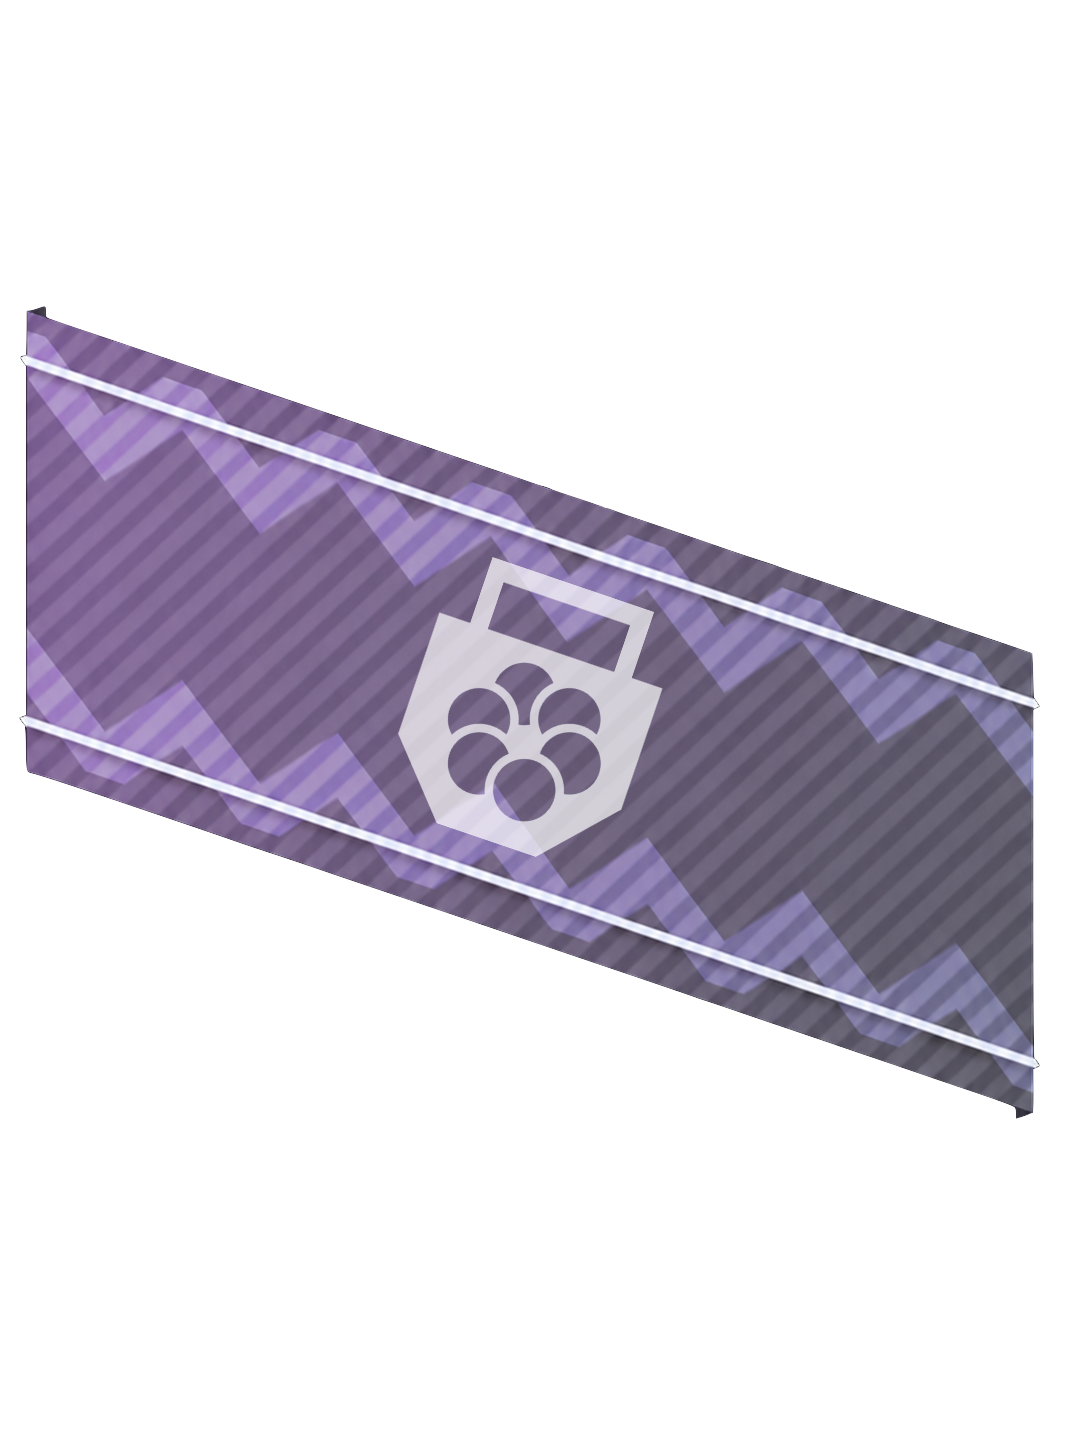
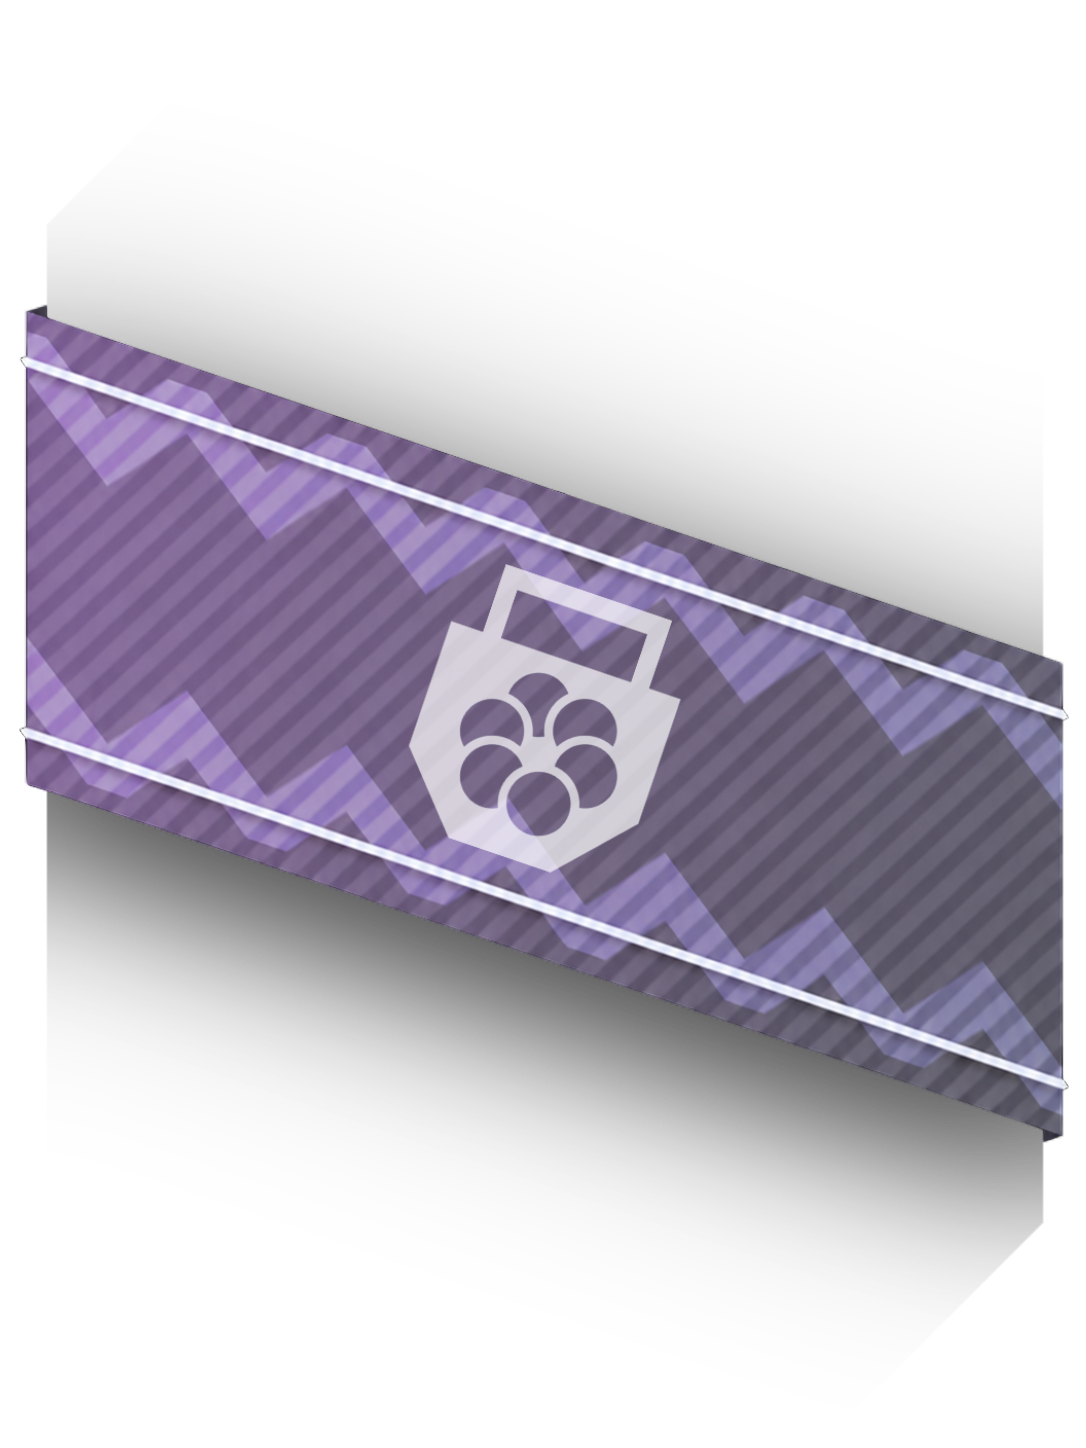
fix: small image fixes

Changed region(s): [[0.0, 0.1865, 1.0, 0.8702]]

diff --git a/src/client/script.js b/src/client/script.js
@@ -106,7 +106,7 @@ function setTarotCardLocked(card, lock) {
     }
     if (!cardDiv) return console.error(`${TAP} Could not find tarot card ${card} to set lock state!`);
 
-    if (cardDiv.classList.contains("floorlocked") && !cardDiv.getAttribute("ap-locked") && false) {
+    if (cardDiv.classList.contains("floorlocked") && !cardDiv.getAttribute("ap-locked")) {
         return console.warn(`${TAP} Card ${card} is locked by game!`)
     }
 
@@ -121,6 +121,7 @@ function setTarotCardLocked(card, lock) {
     for (const img of images) {
         if (lock && img.classList.contains("zenith_card_lock")) {
             img.src = "{{lockover-ap.png}}"
+            img.classList.add("zenith_card_lockover")
         }
     }
 